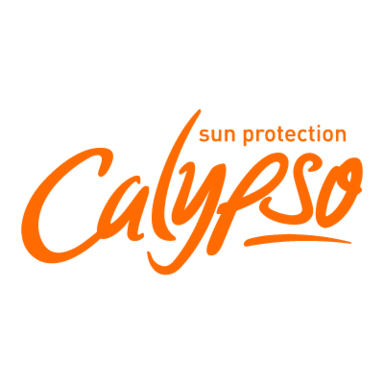
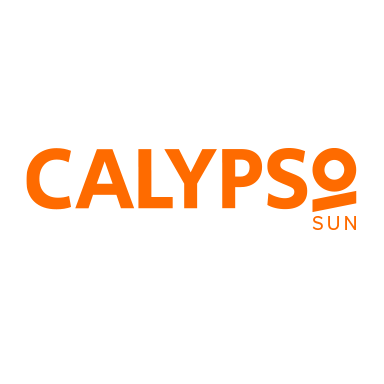
update to social sharing image and Calypso home page layout

Changed region(s): [[0.0312, 0.2812, 0.9688, 0.7188]]

diff --git a/pages/advice/index.js b/pages/advice/index.js
@@ -1,5 +1,6 @@
 import {useState} from 'react'
 import BreadCrumb from '../../components/common/breadcrumb'
+import {Container} from '@mui/material'
 import Head from 'next/head'
 import Image from 'next/image'
 import Link from 'next/link'
@@ -59,7 +60,7 @@ export default function Advice({posts}) {
     })
   }
   return (
-    <div className="container-fluid bg-secondary mt-0">
+    <Container>
       <div className="CalypsoOrange">
         <h1 className="text-centre mt-4">Advice</h1>
         <div className="blogBreadCrumbs">
@@ -89,7 +90,7 @@ export default function Advice({posts}) {
           )}
         </div>
       </div>
-    </div>
+    </Container>
   )
 }
 async function getAllPages(pageCount, url) {

diff --git a/pages/index.js b/pages/index.js
@@ -3,12 +3,10 @@ import * as React from 'react'
 import Head from 'next/head'
 
 import {
-  AsSeen,
   BestSeller,
   BlogSlider,
   HomeSlider,
   Instagram,
-  StaySafe,
   Trending,
 } from 'components'
 
@@ -125,8 +123,6 @@ function Home(props) {
             <HomeSlider isLoaded={isLoaded} second slides={secondarySlides} />
           ) : null}
           <BestSeller bestseller={bestseller} />
-          <StaySafe />
-          <AsSeen />
           <BlogSlider />
           <Instagram />
         </section>
